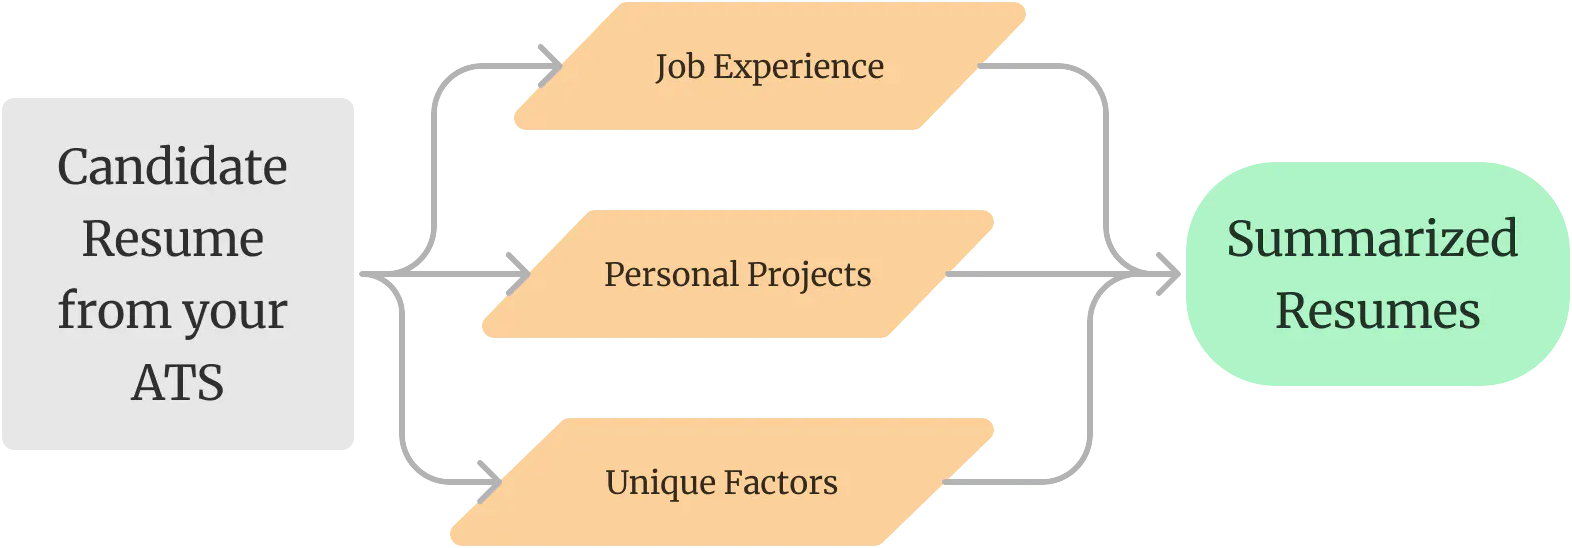
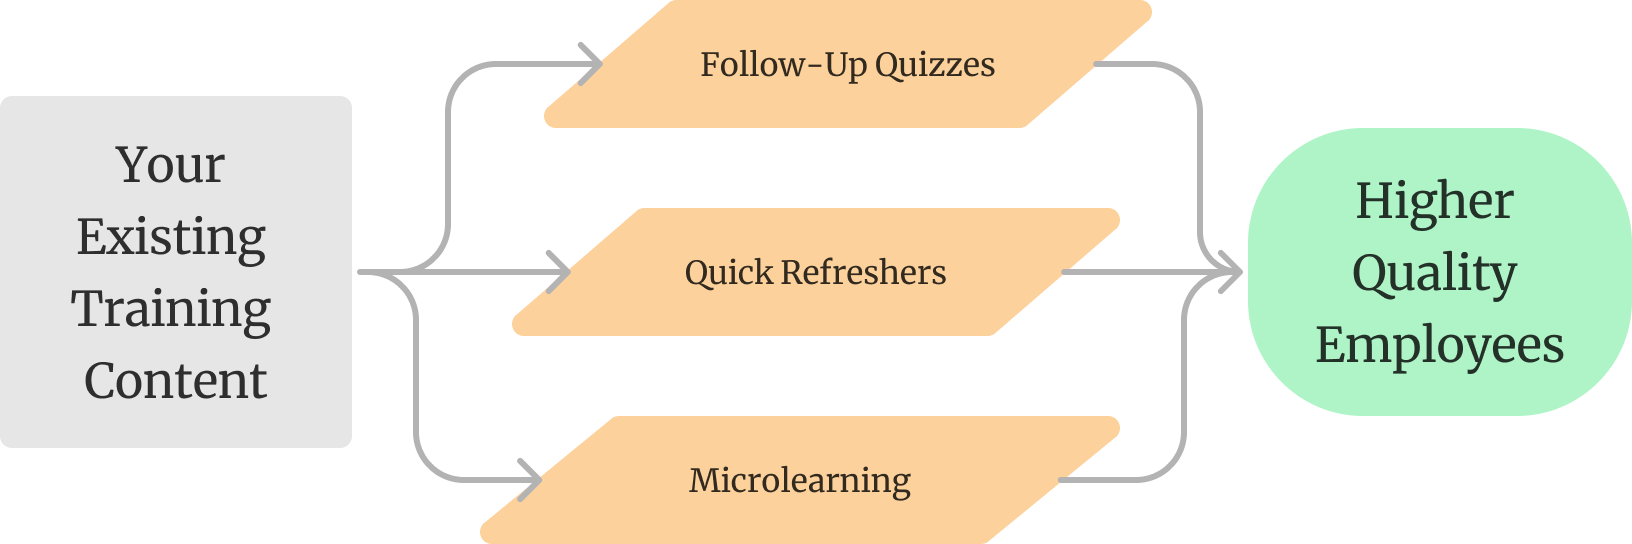
initial commit

diff --git a/app/(dashboard)/about/tracingBeam.tsx b/app/(dashboard)/about/tracingBeam.tsx
@@ -30,48 +30,48 @@ export function TracingBeamSection() {
 
 const dummyContent = [
   {
-    title: "About Pare",
+    title: "About Docen",
     description: (
       <>
         <p>
-            Pare is your ultimate recruiting partner. We specialize in revolutionizing the recruitment process by leveraging cutting-edge technology to simplify and enhance candidate evaluation.
+          Docen is your intelligent learning partner, revolutionizing employee training through AI-powered assessment and microlearning. We specialize in identifying and addressing knowledge gaps in real-time, ensuring your workforce maintains peak competency.
         </p>
         <br />
         <p>
-            At Pare, we understand the challenges faced by hiring teams and aim to provide innovative solutions that save time and streamline workflows. Our platform seamlessly integrates with your existing Applicant Tracking System (ATS) to automate resume screening and analyze candidate fit with unprecedented accuracy.
+          Our platform seamlessly integrates with your existing Learning Management System to deliver weekly, bite-sized quiz questions that evaluate employee knowledge. Through sophisticated AI analysis, we identify areas where skills or understanding may be lacking.
         </p>
         <br />
         <p>
-            By harnessing the power of AI and machine learning, Pare crawls personal websites and GitHub repositories to extract invaluable insights, empowering recruiters to make data-driven decisions with confidence.
+          Based on these insights, Docen automatically generates personalized microlearning paths and refresher content, ensuring efficient and targeted learning interventions that maximize training effectiveness while minimizing time investment.
         </p>
         <br />
         <p>
-        Whether you&apos;re a startup or an established enterprise, Pare is committed to transforming the way you hire, ensuring you find the best talent efficiently and effectively.
+          Whether you're a training provider or corporation, Docen helps you optimize training outcomes, boost revenue, and reduce costs while maintaining high performance standards.
         </p>
       </>
     ),
-    badge: "Pare",
-    },
+    badge: "Docen",
+  },
   {
     title: "Our Mission",
     description: (
       <>
         <p>
-        Pare&apos;s mission is to empower recruiters with powerful tools that simplify and enhance the hiring process. We strive to bridge the gap between talent and opportunity by providing comprehensive insights and analytics that enable informed hiring decisions.
+          Docen's mission is to eliminate training waste and guesswork by providing data-driven insights into employee knowledge gaps. We're committed to making continuous learning effortless and effective, ensuring organizations can maintain a highly competent workforce through targeted, personalized training interventions.
         </p>
       </>
     ),
-    badge: "Recruiters",
-    },
+    badge: "Smart Learning",
+  },
   {
     title: "Get in Touch",
     description: (
       <>
         <p>
-        Ready to experience the future of recruiting? Contact us today to learn more about Pare and how we can transform your hiring strategy.
+          Ready to transform your training approach with AI-powered assessment and microlearning? Contact us today to learn how Docen can optimize your training strategy and boost workforce competency.
         </p>
       </>
     ),
-    badge: "Reach Out",
-    },
+    badge: "Connect",
+  },
 ];

diff --git a/app/HomeDescription.tsx b/app/HomeDescription.tsx
@@ -8,21 +8,17 @@ function HomeDescription() {
     <div className='h-screen bg-black flex flex-col gap-24 justify-center items-center text-center text-white '>
         
         <h1 className='text-3xl md:text-5xl font-semibold'>
-            Say goodbye to tedious <span className='bg-gradient-to-br to-green-700 from-green-300 text-transparent bg-clip-text'>
-                resume screening.
+            Don't guess what training employees <span className='bg-gradient-to-br to-green-700 from-green-300 text-transparent bg-clip-text'>
+                actually need.
             </span> 
         </h1>
         
         <div className='flex gap-8 flex-col lg:flex-row items-center justify-center md:max-w-2xl lg:max-w-5xl xl:max-w-6xl mx-auto'>
             <p className='text-xl md:text-2xl max-w-xs md:max-w-2xl lg:text-left'>
-                Pare effortlessly <span className='italic font-bold bg-gradient-to-br from-neutral-200 to-green-300 text-transparent bg-clip-text'>
-                        integrates into your current ATS
-                    </span> and summarizes resumes, 
-
-                identifies past employers, and evaluates 
-                candidate-company fit. With Pare&apos;s ability 
-                to crawl personal websites and GitHub repositories, 
-                uncovering crucial insights has never been easier.
+                Docen effortlessly <span className='italic font-bold bg-gradient-to-br from-neutral-200 to-green-300 text-transparent bg-clip-text'>
+                        integrates into your current LMS 
+                    </span> and gives employees occasional quizzing to identify knowledge gaps,
+                    microlearning to fill them, and refreshers to keep knowledge top of mind.
             </p>
 
             <Image src={CroppedFlowChart} alt='flow chart' width='800' height='800' />

diff --git a/app/(dashboard)/pricing/CardSection.tsx b/app/(dashboard)/pricing/CardSection.tsx
@@ -1,26 +1,24 @@
 import React from 'react'
 import { MeteorCard } from './MeteorCard'
-
-import { PigMoney } from 'tabler-icons-react';
-import { ZoomMoney } from 'tabler-icons-react';
-import { ReportMoney } from 'tabler-icons-react';
+import { MessageCircle } from 'tabler-icons-react';
 
 function CardSection() {
   return (
+    <div className='min-h-screen bg-black flex flex-col items-center justify-center'>
+      <h1 className='text-white text-4xl md:text-7xl font-semibold mt-48 md:mt-32'>
+        Contact Us
+      </h1>
 
-  <div className='min-h-screen bg-black flex flex-col items-center justify-center'>
-
-    <h1 className='text-white text-4xl md:text-7xl font-semibold mt-32 md:mt-0'>
-      Pricing
-    </h1>
-
-    <div className='flex flex-col md:flex-row items-center justify-center flex-wrap gap-12 pb-24 pt-32'>
-        <MeteorCard icon={<PigMoney color="white" size='60' strokeWidth="1" />} title='Free Tier' text1='Includes basic features' text2='Limited usage' text3='No cost' />
-        <MeteorCard icon={<ZoomMoney color="white" size='60' strokeWidth="1" />} title='Per Candidate' text1='Advanced features' text2='Pay 15 cents per candidate' text3='No commitments' />
-        <MeteorCard icon={<ReportMoney color="white" size='60' strokeWidth="1" />} title='Enterprise' text1='Premium features' text2='Contact for pricing' text3='Customizable options' />
+      <div className='flex items-center justify-center pb-24 pt-32'>
+        <MeteorCard 
+          icon={<MessageCircle color="white" size='60' strokeWidth="1" />} 
+          title='Get Started' 
+          text1='Custom pricing for your needs' 
+          text2='Flexible solutions' 
+          text3='Schedule a demo today' 
+        />
+      </div>
     </div>
-
-  </div>
   )
 }
 

diff --git a/app/CardSection.tsx b/app/CardSection.tsx
@@ -8,9 +8,9 @@ import { ShieldCheck } from 'tabler-icons-react';
 function CardSection() {
   return (
     <div className='bg-black flex flex-col md:flex-row items-center justify-center flex-wrap gap-12 pb-24'>
-        <MeteorCard icon={<Bulb color="white" size='60' strokeWidth="1" />} title='Summarize Resumes' text='Use AI to summarize candidates resumes - reduce read time.' />
-        <MeteorCard icon={<Settings2 color="white" size='60' strokeWidth="1" />} title='Dive Deep' text='Our system analyzes personal websites, project pages, and work experience to give summaries.' />
-        <MeteorCard icon={<ShieldCheck color="white" size='60' strokeWidth="1" />} title='Stay Confident' text='Our tweakable prompts allow you to get the results your company wants, and reduce hallucination.' />
+        <MeteorCard icon={<Bulb color="white" size='60' strokeWidth="1" />} title='Test Knowledge' text='Use AI to determine knowledge gaps in employees.' />
+        <MeteorCard icon={<Settings2 color="white" size='60' strokeWidth="1" />} title='Dive Deep' text='Our system analyzes quizzing, manager feedback, and more to give detailed insights.' />
+        <MeteorCard icon={<ShieldCheck color="white" size='60' strokeWidth="1" />} title='Stay Confident' text='Get personalized microlearning recommendations to improve, keeping your team sharp.' />
     </div>
   )
 }

diff --git a/app/(dashboard)/contact/page.tsx b/app/(dashboard)/contact/page.tsx
@@ -12,7 +12,7 @@ function page() {
             Contact Us
           </h1>
           <h2 className='text-xl md:text-4xl max-w-4xl w-4/5 md:w-full'>
-            Reach out with any inqueries and we&apos;ll get back to you with <span className='bg-gradient-to-br to-green-700 from-green-300 text-transparent bg-clip-text'>everything you need.</span>
+            Reach out with any inquiries and we&apos;ll get back to you with <span className='bg-gradient-to-br to-green-700 from-green-300 text-transparent bg-clip-text'>everything you need.</span>
           </h2>
 
           <div className='w-4/5 md:w-1/2 border border-white p-8 mt-12 rounded-2xl flex flex-col gap-4 text-lg md:text-2xl'>

diff --git a/app/VortexHero.tsx b/app/VortexHero.tsx
@@ -15,12 +15,12 @@ export function VortexHero() {
             Meet <span
                       className="bg-gradient-to-br to-green-700 from-green-300 text-transparent bg-clip-text"
                       >
-                      Pare
+                      Docen
                   </span>
           </h2>
 
           <h2 className="text-white text-xl md:text-3xl font-bold text-center">
-              Your Ultimate Recruiting Partner.
+              The future of L&D and AI powered learning.
           </h2>
           <div className="flex flex-col sm:flex-row items-center gap-4 mt-6">
             <ConnectButton text="Get Started" href="https://calendly.com/argupta_/30min" />

diff --git a/app/layout.tsx b/app/layout.tsx
@@ -5,8 +5,8 @@ import "./globals.css";
 const inter = Inter({ subsets: ["latin"] });
 
 export const metadata: Metadata = {
-  title: "Pare",
-  description: "Your Ultimate Recruiting Partner",
+  title: "Docen",
+  description: "Supercharge your L&D with AI.",
   icons: {
     icon: [
       { url: '/favicon.ico'},

diff --git a/README.md b/README.md
@@ -2,7 +2,19 @@ This is a [Next.js](https://nextjs.org/) project bootstrapped with [`create-next
 
 ## Getting Started
 
-First, run the development server:
+First, install the project dependencies:
+
+```bash
+npm install
+# or
+yarn install
+# or
+pnpm install
+# or
+bun install
+```
+
+Then, run the development server:
 
 ```bash
 npm run dev
